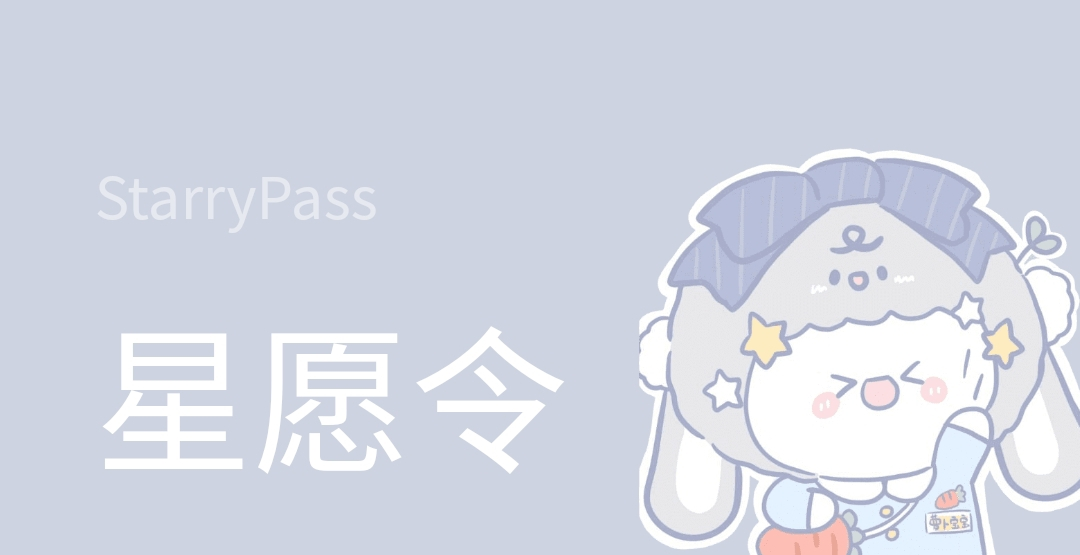
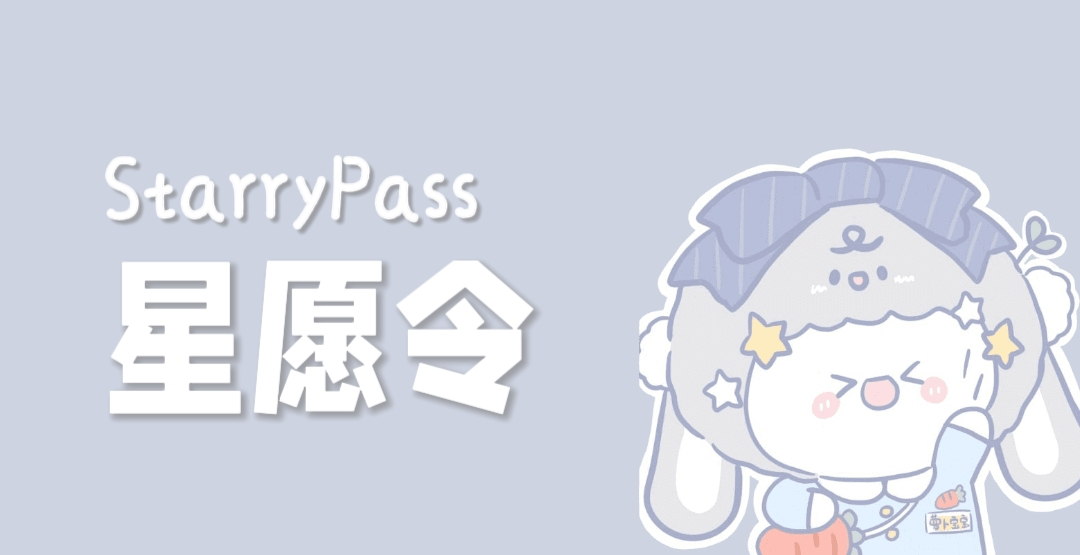
update

Changed region(s): [[0.0917, 0.4595, 0.5194, 0.8577], [0.0917, 0.2757, 0.4583, 0.4288]]

diff --git a/service-worker.js b/service-worker.js
@@ -1,1 +1,1 @@
-let timestamp = "1712898348", VERSION = "precache-v" + timestamp, RUNTIME = "runtime-v" + timestamp; const PRECACHE_URLS = ["/"]; self.addEventListener("install", (e => { e.waitUntil(caches.open(VERSION).then((e => e.addAll(PRECACHE_URLS))).then(self.skipWaiting())) })), self.addEventListener("activate", (e => { const t = [VERSION, RUNTIME]; e.waitUntil(caches.keys().then((e => e.filter((e => !t.includes(e))))).then((e => Promise.all(e.map((e => caches.delete(e)))))).then((() => self.clients.claim()))) })), self.addEventListener("fetch", (e => { e.request.url.startsWith(self.location.origin) && e.respondWith(caches.match(e.request).then((t => t || caches.open(RUNTIME).then((t => fetch(e.request).then((s => t.put(e.request, s.clone()).then((() => s))))))))) }));
+let timestamp = "1713010401", VERSION = "precache-v" + timestamp, RUNTIME = "runtime-v" + timestamp; const PRECACHE_URLS = ["/"]; self.addEventListener("install", (e => { e.waitUntil(caches.open(VERSION).then((e => e.addAll(PRECACHE_URLS))).then(self.skipWaiting())) })), self.addEventListener("activate", (e => { const t = [VERSION, RUNTIME]; e.waitUntil(caches.keys().then((e => e.filter((e => !t.includes(e))))).then((e => Promise.all(e.map((e => caches.delete(e)))))).then((() => self.clients.claim()))) })), self.addEventListener("fetch", (e => { e.request.url.startsWith(self.location.origin) && e.respondWith(caches.match(e.request).then((t => t || caches.open(RUNTIME).then((t => fetch(e.request).then((s => t.put(e.request, s.clone()).then((() => s))))))))) }));

diff --git a/index.html b/index.html
@@ -5,7 +5,6 @@
     <meta charset="utf-8">
     <meta http-equiv="X-UA-Compatible" content="IE=edge">
     <meta name="viewport" content="width=device-width, initial-scale=1, user-scalable=0">
-    <link rel="shortcut icon" href="./favicon.ico">
     <title>星愿令 StarryPass</title>
     <meta name="keywords" content="密码管理,密码,密码本,密码管理工具" />
     <meta name="description" content="简单方便防破解，不一样的密码管理工具" />
@@ -25,10 +24,6 @@
     <div id="top-bar">
         <div id="top-bar-box">
             <div id="logo">
-                <div class="main">星愿令</div>
-                <div class="english">
-                    <p>StarryPass</p>
-                </div>
             </div>
         </div>
 

diff --git a/assets/css/app.css b/assets/css/app.css
@@ -445,9 +445,9 @@ body {
 #top-bar {
     height: 270px;
     max-height: 32vh;
-    background-image: url(top-bar-bg.png);
+    background-image: url(bg.png);
     background-repeat: no-repeat;
-    background-position: 100%;
+    background-position: 49%;
     background-size: auto 100%
 }
 
@@ -458,28 +458,6 @@ body {
     height: 100%;
     padding: 0 20px;
     position: relative
-}
-
-#logo {
-    position: absolute;
-    left: 20px;
-    bottom: 10px;
-    color: #fff;
-    display: flex;
-    flex-direction: column;
-    align-items: flex-start;
-}
-
-#logo .main {
-    font-size: 60px;
-    order: 2;
-}
-
-#logo .english {
-    font-size: 22px;
-    margin-bottom: 1px;
-    opacity: .5;
-    order: 1;
 }
 
 .content-box {

diff --git a/README.md b/README.md
@@ -1,5 +1,5 @@
-# StarryPass
+# StarryPass 星愿令
 ### Made for My Best Xyc～❤
-![image](https://raw.githubusercontent.com/lingyicute/StarryPass/master/banner.jpg)
+![image](https://raw.githubusercontent.com/lingyicute/StarryPassAndroidWeb/master/banner.jpg)
 
-StarryPass Password Manager
+简单方便防破解，不一样的密码管理工具
